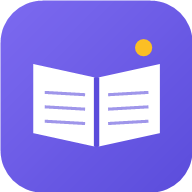
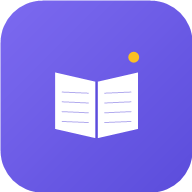
오픈그래프 카드와 홈 화면 아이콘 추가
카톡·메신저에 링크를 붙여넣으면 미리보기 카드가 뜨도록 오픈그래프 태그를
넣었습니다. 1200x630 카드 이미지도 만들었습니다.

아이폰 홈 화면 아이콘(apple-touch-icon 180x180)을 따로 만들었습니다.
그동안 192px 앱 아이콘을 재활용하고 있었습니다.
아이폰은 모서리를 자기가 깎기 때문에 이 아이콘만 사각형으로 만들었습니다.
(미리 깎아두면 이중으로 깎여서 이상해집니다)

- images/og-image.png : 미리보기 카드
- icons/apple-touch-icon.png : 아이폰 홈 화면 아이콘
- sw.js 캐시 목록에 새 아이콘 추가

주의: 오픈그래프 글자는 data.js 가 아니라 index.html 에 직접 적혀 있습니다.
카톡은 미리보기를 만들 때 자바스크립트를 실행하지 않아 data.js 를 읽을 수
없기 때문입니다. 학교 이름을 바꾸면 두 곳을 모두 고쳐야 하며,
그 내용을 index.html 주석에 적어두었습니다.

Changed region(s): [[0.1562, 0.1875, 0.8438, 0.7812]]

diff --git a/index.html b/index.html
@@ -1,10 +1,33 @@
 <meta charset="utf-8">
 <meta name="viewport" content="width=device-width, initial-scale=1, viewport-fit=cover">
 <meta name="theme-color" content="#5B4CDB">
-<title>도서관 탐험대</title>
+<title>도서관 탐험대 | 규암초등학교 꿈빛도서관</title>
+<meta name="description" content="규암초등학교 꿈빛도서관 이용자 교육 앱. 책 빌리는 법부터 서가에서 책 찾기까지 배우고, 퀴즈를 풀어 수료 배지를 받아요.">
+
+<!-- ══════ 카톡·메신저에 링크를 붙여넣을 때 뜨는 미리보기 카드 (오픈그래프) ══════
+     ⚠️ 여기 글자는 data.js 와 따로 관리됩니다!
+        카톡 같은 앱은 미리보기를 만들 때 자바스크립트를 실행하지 않아서
+        data.js 의 학교 이름을 읽어올 수 없기 때문이에요.
+        학교·도서관 이름을 바꾸면 data.js 와 여기 두 곳을 모두 고쳐야 합니다.
+
+     ⚠️ og:image 와 og:url 은 반드시 http 로 시작하는 전체 주소여야 해요.
+        지금은 GitHub Pages 주소를 씁니다. 다른 곳(예: Vercel)으로 옮기면
+        아래 두 줄의 주소를 바꿔주세요.                                        -->
+<meta property="og:type" content="website">
+<meta property="og:site_name" content="도서관 탐험대">
+<meta property="og:locale" content="ko_KR">
+<meta property="og:title" content="도서관 탐험대 | 규암초등학교 꿈빛도서관">
+<meta property="og:description" content="책 빌리는 법부터 서가에서 책 찾기까지! 퀴즈를 풀고 수료 배지를 받아요.">
+<meta property="og:url" content="https://dhsojo31-rgb.github.io/library/">
+<meta property="og:image" content="https://dhsojo31-rgb.github.io/library/images/og-image.png">
+<meta property="og:image:width" content="1200">
+<meta property="og:image:height" content="630">
+<meta property="og:image:alt" content="도서관 탐험대 - 규암초등학교 꿈빛도서관">
+<meta name="twitter:card" content="summary_large_image">
+
 <link rel="manifest" href="manifest.json">
 <link rel="icon" href="icons/icon-192.png">
-<link rel="apple-touch-icon" href="icons/icon-192.png">
+<link rel="apple-touch-icon" href="icons/apple-touch-icon.png">
 <link rel="stylesheet" href="style.css">
 
 <!-- ══════════════ 온보딩: 최초 1회만 ══════════════ -->

diff --git a/sw.js b/sw.js
@@ -21,6 +21,7 @@ const FILES = [
   './manifest.json',
   './icons/icon-192.png',
   './icons/icon-512.png',
+  './icons/apple-touch-icon.png',
   './images/bookcart.png'
 ];
 